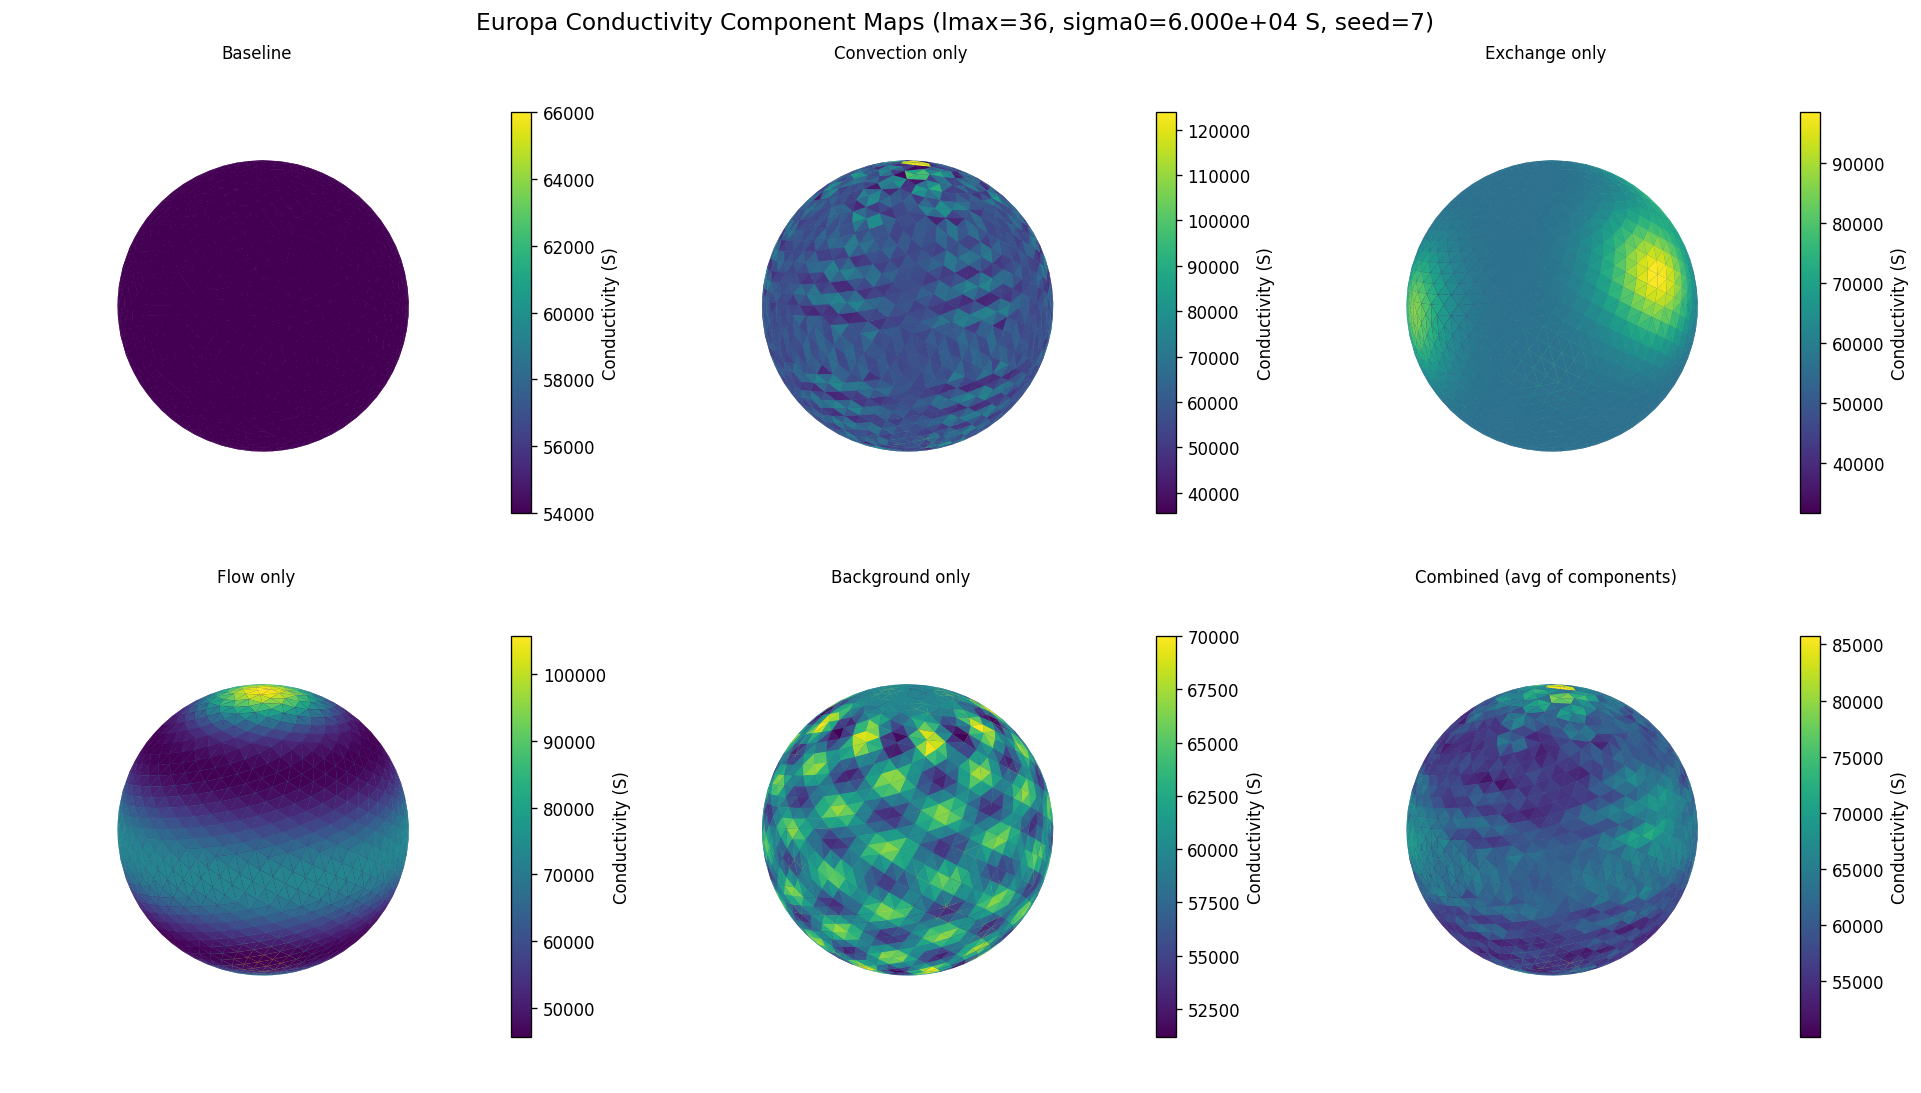
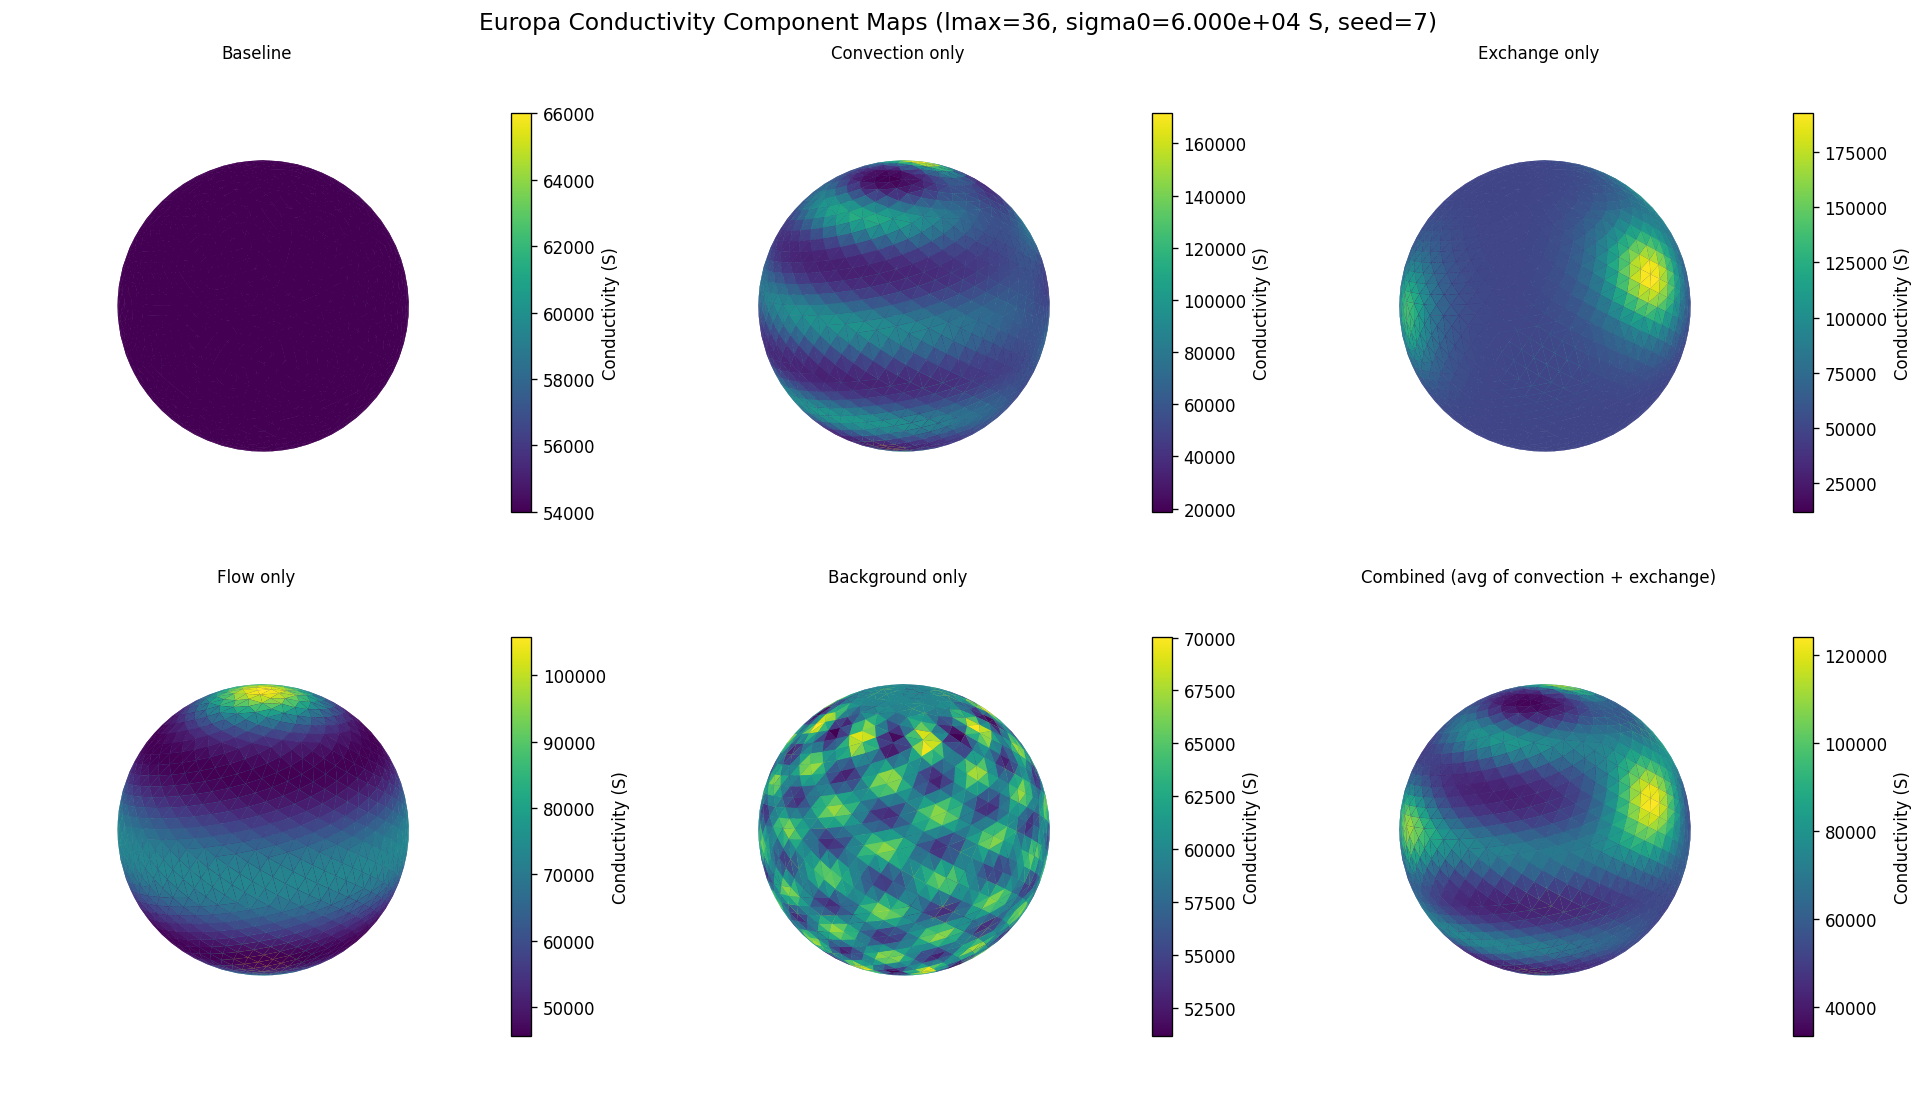
chore: commit remaining local workflow and conductivity updates

diff --git a/workflow/workflow_nonuniform_gui.py b/workflow/workflow_nonuniform_gui.py
@@ -271,6 +271,21 @@ def _complex_sheet_admittance(
     return Y.to(torch.complex128)
 
 
+def _component_sigma_map_from_x(
+    sigma0: float,
+    x_component: torch.Tensor,
+    weights: torch.Tensor,
+) -> torch.Tensor:
+    """Convert one log-space component into a conductivity map with mean sigma0."""
+    sigma = float(sigma0) * torch.exp(x_component.to(torch.float64))
+    w = weights.to(torch.float64)
+    wsum = float(w.sum().item())
+    mean_now = float((w * sigma).sum().item() / max(wsum, 1e-30))
+    if mean_now > 0.0:
+        sigma = sigma * (float(sigma0) / mean_now)
+    return sigma.to(torch.float64)
+
+
 def step1_build_grid_admittance(
     lmax: int,
     mean_cond: float,
@@ -278,7 +293,6 @@ def step1_build_grid_admittance(
     mode_l: int,
     mode_m: int,
     conductivity_model: str,
-    inductance_scale: float,
     log,
 ) -> Path:
     lmax = max(1, int(lmax))
@@ -312,12 +326,29 @@ def step1_build_grid_admittance(
         roundtrip_tol = 5e-6
     else:
         cfg = EuropaSnapshotConfig(seed=7)
-        cond_real, model_components = build_europa_snapshot_conductivity(
+        _cond_model, model_components = build_europa_snapshot_conductivity(
             positions=positions,
             weights=weights,
             sigma0=mean_val,
             cfg=cfg,
         )
+        x_conv = model_components.get("x_chem")
+        x_exchange = model_components.get("x_exchange")
+        x_flow = model_components.get("x_flow")
+        x_bg = model_components.get("x_bg")
+        if not all(isinstance(xi, torch.Tensor) for xi in (x_conv, x_exchange, x_flow, x_bg)):
+            raise RuntimeError("Europa snapshot components missing (x_chem/x_exchange/x_flow/x_bg).")
+        sigma_conv = _component_sigma_map_from_x(mean_val, x_conv, weights)
+        sigma_exchange = _component_sigma_map_from_x(mean_val, x_exchange, weights)
+        sigma_flow = _component_sigma_map_from_x(mean_val, x_flow, weights)
+        sigma_bg = _component_sigma_map_from_x(mean_val, x_bg, weights)
+        cond_real = 0.25 * (sigma_conv + sigma_exchange + sigma_flow + sigma_bg)
+        model_components["sigma_conv_only"] = sigma_conv
+        model_components["sigma_exchange_only"] = sigma_exchange
+        model_components["sigma_flow_only"] = sigma_flow
+        model_components["sigma_bg_only"] = sigma_bg
+        model_components["sigma_combined_rule"] = "avg_components"
+        log("Europa snapshot combine rule: sigma = average of component-only maps")
         roundtrip_tol = 3e-2
     realized_mean = float(cond_real.mean().item())
     realized_rms = float(torch.sqrt(((cond_real - realized_mean) ** 2).mean()).item())
@@ -356,8 +387,7 @@ def step1_build_grid_admittance(
     )
 
     omega = 2.0 * math.pi / (9.925 * 3600.0)
-    log(f"Inductance scale: {float(inductance_scale):.3f}")
-    cond = _complex_sheet_admittance(cond_real, omega, grid_cfg.radius_m, inductance_scale=inductance_scale)
+    cond = _complex_sheet_admittance(cond_real, omega, grid_cfg.radius_m, inductance_scale=0.0)
     Y_s = sh_forward(cond, positions, lmax=grid_cfg.lmax, weights=weights)
 
     state = {
@@ -383,7 +413,6 @@ def step1_build_grid_admittance(
         "sigma_frac_rms": frac_rms,
         "sigma_mode_l": int(mode_l),
         "sigma_mode_m": int(mode_m),
-        "inductance_scale": float(inductance_scale),
     }
     if model_components:
         state.update(model_components)
@@ -750,6 +779,27 @@ def step4_render_gradient(label: str, altitude_m: float, log, plotter: str) -> P
     return save_path
 
 
+def step4_render_gradient_log100(label: str, log, plotter: str) -> Path:
+    payload = _load_solution(label)
+    sim_out: PhasorSimulation = payload["phasor_sim"]
+    grid_state = _load_state("grid_admittance.pt")
+    FIG_DIR.mkdir(parents=True, exist_ok=True)
+    altitude_m = 100e3
+    title = "RSS |grad_B_emit| at alt=100 km (log scale)"
+    save_path = FIG_DIR / f"nonuniform_grad_{int(altitude_m):d}m_{label}_log.png"
+    render_gradient_map(
+        sim_out,
+        altitude_m=altitude_m,
+        save_path=str(save_path),
+        title=title,
+        faces=grid_state["faces"],
+        plotter=plotter,
+        log_scale=True,
+    )
+    log(f"Rendered log-scale gradient map to {save_path}")
+    return save_path
+
+
 def _flatten_harmonics(coeffs: torch.Tensor) -> tuple[np.ndarray, np.ndarray, np.ndarray]:
     """Return l, m, |coeff| arrays in canonical (l,m) order."""
     lmax = coeffs.shape[-2] - 1
@@ -1028,8 +1078,8 @@ def main():
         _set_button_state(btn_step2, grid_ok, completed=ambient_ok)
         _set_button_state(btn_step_solve, ambient_ok, completed=selected_ok, color=selected_color if ambient_ok else None)
         _set_button_state(btn_overview, selected_ok, color=selected_color if selected_ok else None)
-        _set_button_state(btn_grad0, selected_ok, color=selected_color if selected_ok else None)
         _set_button_state(btn_grad100, selected_ok, color=selected_color if selected_ok else None)
+        _set_button_state(btn_grad100_log, selected_ok, color=selected_color if selected_ok else None)
         _set_button_state(btn_harm, selected_ok, color=selected_color if selected_ok else None)
 
     # Step 0: load latest run folder
@@ -1128,9 +1178,6 @@ def main():
     ttk.Label(frm, text="frac RMS").grid(row=3, column=7, sticky="e")
     frac_rms_var = tk.StringVar(value="0.05")
     ttk.Entry(frm, textvariable=frac_rms_var, width=6).grid(row=3, column=8, sticky="w")
-    ttk.Label(frm, text="extra inducance scale (x)").grid(row=3, column=9, sticky="e")
-    inductance_scale_var = tk.StringVar(value="0.0")
-    ttk.Entry(frm, textvariable=inductance_scale_var, width=6).grid(row=3, column=10, sticky="w")
 
     btn_step1 = tk.Button(
         frm,
@@ -1146,7 +1193,6 @@ def main():
                     int(mode_l_var.get()),
                     int(mode_m_var.get()),
                     conductivity_model_var.get(),
-                    float(inductance_scale_var.get()),
                     lambda msg: _log(log_widget, msg),
                 ),
             )[1],
@@ -1178,8 +1224,6 @@ def main():
                 mode_l_var.set(str(int(state["sigma_mode_l"])))
             if "sigma_mode_m" in state:
                 mode_m_var.set(str(int(state["sigma_mode_m"])))
-            if "inductance_scale" in state:
-                inductance_scale_var.set(str(float(state["inductance_scale"])))
             if "conductivity_model" in state:
                 conductivity_model_var.set(str(state["conductivity_model"]))
             _log(log_widget, "Step 0: refreshed GUI inputs from loaded state.")
@@ -1264,17 +1308,6 @@ def main():
         ),
     )
     btn_overview.grid(row=8, column=3, padx=4, sticky="w")
-    btn_grad0 = tk.Button(
-        frm,
-        text="Gradients @ surface (self-consistent)",
-        wraplength=180,
-        justify="left",
-        command=lambda: run_step_ui(
-            btn_grad0,
-            lambda: step4_render_gradient(_selected_mode(), 0.0, lambda msg: _log(log_widget, msg), plotter_var.get()),
-        ),
-    )
-    btn_grad0.grid(row=8, column=4, padx=4, sticky="w")
     btn_grad100 = tk.Button(
         frm,
         text="Gradients @ 100 km (self-consistent)",
@@ -1285,7 +1318,18 @@ def main():
             lambda: step4_render_gradient(_selected_mode(), 100e3, lambda msg: _log(log_widget, msg), plotter_var.get()),
         ),
     )
-    btn_grad100.grid(row=8, column=5, padx=4, sticky="w")
+    btn_grad100.grid(row=8, column=4, padx=4, sticky="w")
+    btn_grad100_log = tk.Button(
+        frm,
+        text="Gradients @ 100 km (log scale)",
+        wraplength=180,
+        justify="left",
+        command=lambda: run_step_ui(
+            btn_grad100_log,
+            lambda: step4_render_gradient_log100(_selected_mode(), lambda msg: _log(log_widget, msg), plotter_var.get()),
+        ),
+    )
+    btn_grad100_log.grid(row=8, column=5, padx=4, sticky="w")
     btn_harm = tk.Button(
         frm,
         text="Harmonics (ambient vs emitted)",
@@ -1304,8 +1348,8 @@ def main():
         solve_mode_header_var.set(f"Step 4-6: {label} solve")
         btn_step_solve.config(text=f"Solve {label}")
         btn_overview.config(text=f"Overview ({label})")
-        btn_grad0.config(text=f"Gradients @ surface ({label})")
         btn_grad100.config(text=f"Gradients @ 100 km ({label})")
+        btn_grad100_log.config(text=f"Gradients @ 100 km (log, {label})")
 
     solve_mode_var.trace_add("write", lambda *_: (_update_selected_mode_labels(), _update_button_states()))
     _update_selected_mode_labels()

diff --git a/europa_model/gradient_utils.py b/europa_model/gradient_utils.py
@@ -434,6 +434,7 @@ def render_gradient_map(
     faces: torch.Tensor | None = None,
     plotter: str = "pyvista",
     subdivisions: int = 0,
+    log_scale: bool = False,
 ) -> None:
     import matplotlib.pyplot as plt
     from workflow.plotting.sphere_roundtrip import sphere_image
@@ -490,7 +491,18 @@ def render_gradient_map(
     tri_verts = pts[face_np]
     vmax = float(face_vals.max()) if face_vals.size else 1.0
     vmax = vmax if vmax > 0 else 1.0
-    norm = mcolors.Normalize(vmin=0.0, vmax=vmax)
+    if log_scale:
+        positive = face_vals[face_vals > 0.0]
+        if positive.size:
+            vmin = float(np.quantile(positive, 0.01))
+            vmin = max(vmin, float(np.min(positive)))
+        else:
+            vmin = 1e-30
+        if vmax <= vmin:
+            vmax = vmin * 10.0
+        norm = mcolors.LogNorm(vmin=vmin, vmax=vmax)
+    else:
+        norm = mcolors.Normalize(vmin=0.0, vmax=vmax)
     cmap = plt.get_cmap("rainbow")
     colors = cmap(norm(face_vals))
 
@@ -530,7 +542,7 @@ def render_gradient_map(
     fig_save.colorbar(
         mappable,
         cax=cax,
-        label="|grad_B_emit| RSS (T/m)",
+        label="|grad_B_emit| RSS (T/m)" + (" [log]" if log_scale else ""),
     )
     plt.tight_layout()
     plt.savefig(save_path, dpi=220, bbox_inches="tight")
@@ -559,7 +571,7 @@ def render_gradient_map(
             ax=ax,
             shrink=0.8,
             pad=0.05,
-            label="|grad_B_emit| RSS (T/m)",
+            label="|grad_B_emit| RSS (T/m)" + (" [log]" if log_scale else ""),
         )
         plt.tight_layout()
         plt.show()

diff --git a/workflow/conductivity_models/europa_snapshot.py b/workflow/conductivity_models/europa_snapshot.py
@@ -17,7 +17,7 @@ class EuropaSnapshotConfig:
     n_exchange_sites: int = 5
     exchange_amp: float = 0.45
     exchange_width_deg: float = 18.0
-    exchange_target_max_s: float = 1.0e5
+    exchange_target_max_s: float = 2.0e5
     flow_anisotropy: float = 0.20
     background_amp: float = 0.08
     seed: int = 7
@@ -94,9 +94,9 @@ def build_europa_snapshot_conductivity(
     grid_lmax = max(1, int(round(math.sqrt(float(n_nodes)))) - 1)
 
     # "Convection" component stored under x_chem key for backward compatibility.
-    # Requested target: l=32, m=3 (or nearest available if grid lmax is smaller).
-    l_conv = min(32, grid_lmax)
-    m_conv = min(3, l_conv)
+    # Requested target: l=8, m=1 (or nearest available if grid lmax is smaller).
+    l_conv = min(8, grid_lmax)
+    m_conv = min(1, l_conv)
     coeffs_conv = torch.zeros((l_conv + 1, 2 * l_conv + 1), dtype=torch.complex128)
     c_conv = 1.0 + 0.0j
     coeffs_conv[l_conv, l_conv + m_conv] = c_conv
